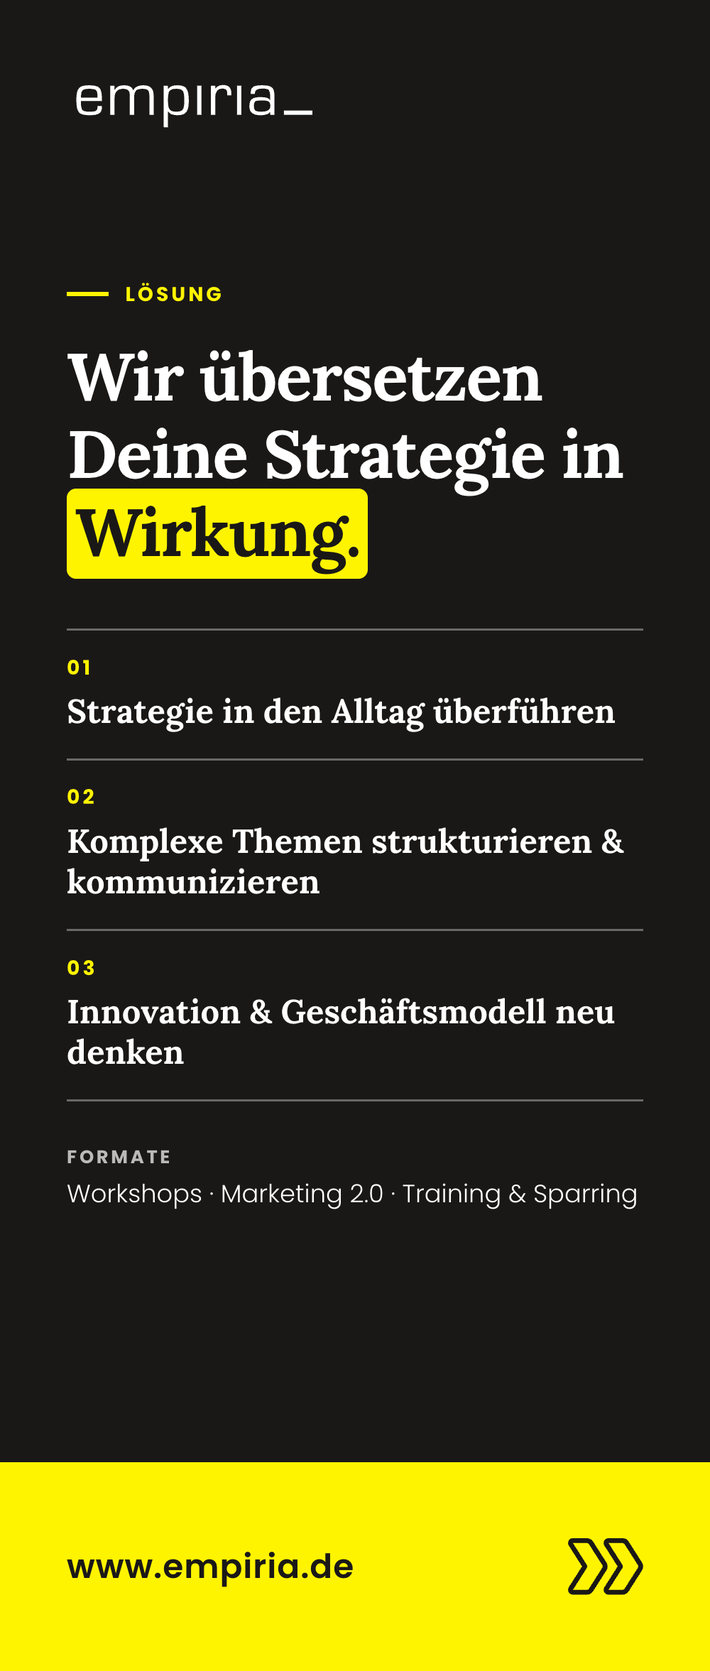
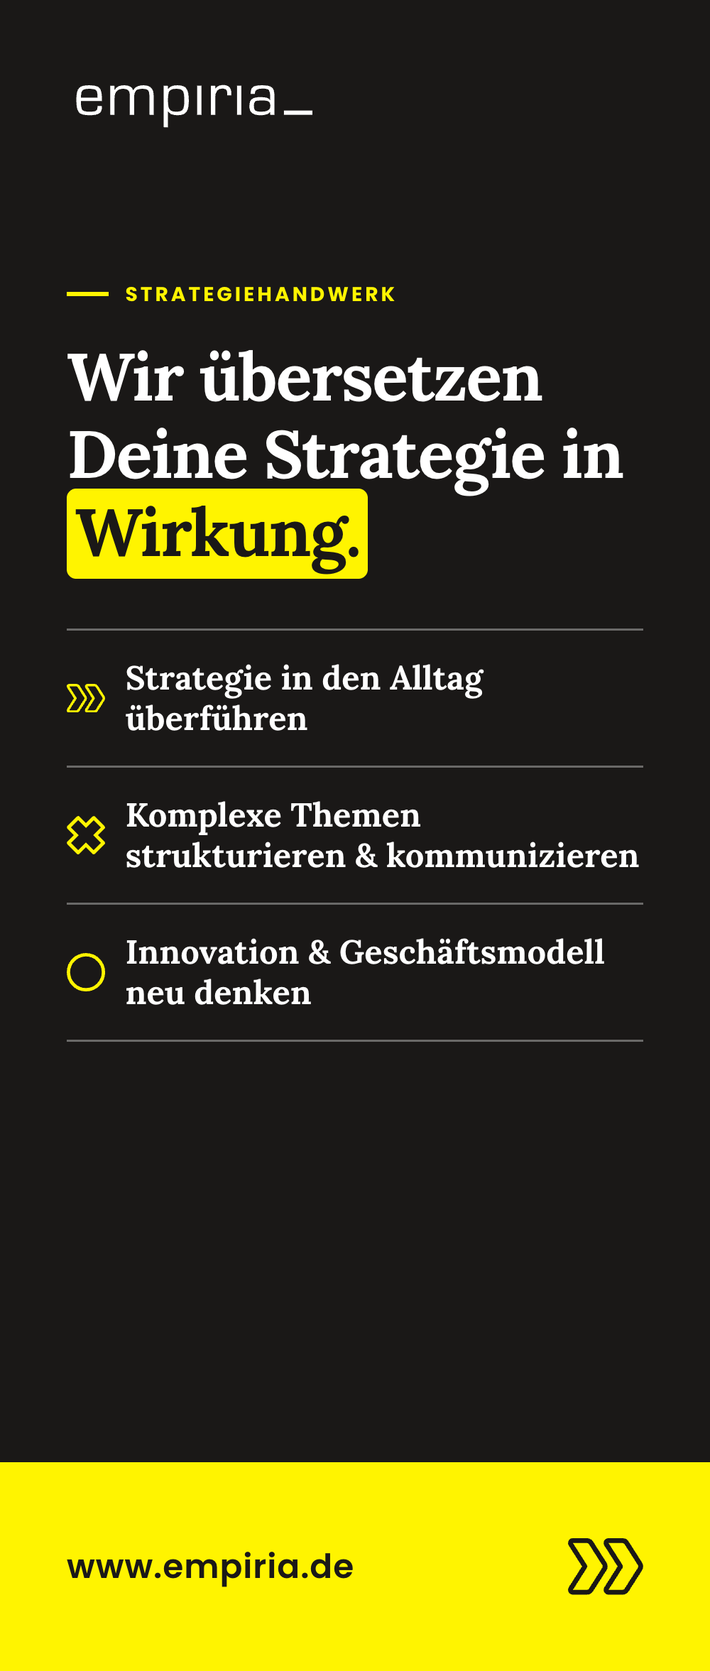
Roll-up Prüfrunde 1: Fließtext und Formate-Zeile entfernt, Leistungen mit den Zeichen der Homepage statt Nummern

diff --git a/site/projekte/ga-rollup.html b/site/projekte/ga-rollup.html
@@ -810,12 +810,13 @@ if(document.readyState==='loading')document.addEventListener('DOMContentLoaded',
   <h1>Roll-<span class="hl">up</span></h1>
   <p class="ga-lead">Vier Entwürfe für das Roll-up im Format 85 × 200 cm – für Messen, Vorträge und Workshops. Wenig Text, große Schrift, die Botschaft auf Augenhöhe. Alle Entwürfe sind maßstäblich; die PNGs sind Vorschauen, keine Druckdaten.</p>
   <div class="ga-chips"><span class="aktiv">Entwurf 1</span><span>85 × 200 cm</span><span>4 Varianten</span><span>Sichtzonen</span></div>
-  <div class="ga-abschnitt"><h2>Vier Varianten</h2><p><b>A</b> setzt allein auf den Claim und den Doppelpfeil – wirkt aus 10 m Entfernung. <b>B</b> erklärt in drei Zeilen, was empiria tut. <b>C</b> zeigt die Menschen – gut für Messen und Netzwerk-Abende. <b>D</b> holt die Leitfrage der Startseite auf Gelb und spricht Führungskräfte direkt an.</p><div class="ga-raster" style="--sp:4;--sp-m:2;gap:2.2rem 1.2rem"><figure class="ga-wrap"><div class="ru ga-blatt ru--a" style="--bg:#fff;--fg:#1a1817" data-png="ga/rollup/rollup-a.png" data-pw="1000"><div class="ru-in"><img class="ru-logo" src="/assets/empiria-logo.svg" alt="empiria"><div class="ru-block"><p class="ru-kicker">Strategiehandwerk</p><p class="ru-h ru-h--gross">Strategie,<br>die <span class="ru-hl">wirkt.</span></p><p class="ru-text">empiria begleitet Führungskräfte in der Versicherungsbranche bei strategischen Fragen, die schnelle Klarheit und wirksame Umsetzung erfordern.</p></div><span class="ru-pfeil-a"><svg class="" viewBox="2.83 31.08 226.78 170.29" fill="#1a1817" color="#1a1817" aria-hidden="true"><path fill="currentColor" d="M124.63,201.36c-7.96-.02-14.41-6.49-14.39-14.43,0-2.73.78-5.38,2.24-7.69l40.09-63.07-40.08-63c-4.25-6.77-2.2-15.67,4.52-19.89,2.28-1.43,4.91-2.19,7.59-2.2h43.03c7.41.02,14.18,3.76,18.12,10.02l40.52,63.6c4.45,7.01,4.45,16.05,0,23.04l-40.54,63.64c-3.92,6.22-10.69,9.97-18.08,9.99h-43.01ZM125.11,45.72l42.32,66.52c1.52,2.4,1.53,5.46,0,7.86l-42.34,66.62h42.54c2.33,0,4.48-1.2,5.73-3.18l40.55-63.66c1.41-2.22,1.41-5.09,0-7.31l-40.53-63.62c-1.27-2.02-3.42-3.21-5.77-3.21h-42.51Z"/>
-      <path fill="currentColor" d="M60.23,201.36H17.22c-7.96-.02-14.41-6.49-14.39-14.43,0-2.72.78-5.38,2.24-7.68l40.09-63.08L5.08,53.2c-4.26-6.72-2.26-15.63,4.45-19.88,2.31-1.46,4.97-2.23,7.69-2.24h43c7.41.01,14.18,3.76,18.13,10.02l40.52,63.6c4.45,7.01,4.45,16.05,0,23.04l-40.54,63.64c-3.93,6.23-10.7,9.97-18.1,9.99ZM17.68,45.72l42.34,66.52c1.52,2.4,1.53,5.46,0,7.86l-42.34,66.62h42.53c2.34,0,4.49-1.2,5.74-3.18l40.55-63.66c1.41-2.22,1.41-5.09,0-7.31l-40.53-63.62c-1.27-2.02-3.42-3.21-5.77-3.21H17.68Z"/></svg></span><div class="ru-fuss" style="background:#fff400;color:#1a1817"><span>www.empiria.de</span></div></div></div><figcaption class="ga-label"><b>A · Claim</b> · weiß · 85 × 200 cm</figcaption><a class="ga-dl" href="/projekte/ga/rollup/rollup-a.png" download><svg viewBox="0 0 24 24" fill="none" stroke="currentColor" stroke-width="2" stroke-linecap="round" stroke-linejoin="round"><path d="M12 15V3"/><path d="m7 10 5 5 5-5"/><path d="M21 15v4a2 2 0 0 1-2 2H5a2 2 0 0 1-2-2v-4"/></svg>PNG-Vorschau · 1000 × 2353 px</a></figure><figure class="ga-wrap"><div class="ru ga-blatt ru--b" style="--bg:#1a1817;--fg:#fff" data-png="ga/rollup/rollup-b.png" data-pw="1000"><div class="ru-in"><img class="ru-logo" src="/assets/empiria-logo-weiss.svg" alt="empiria"><div class="ru-block"><p class="ru-kicker">Lösung</p><p class="ru-h">Wir übersetzen Deine Strategie in <span class="ru-hl">Wirkung.</span></p><ol class="ru-liste"><li><small>01</small><b>Strategie in den Alltag überführen</b></li><li><small>02</small><b>Komplexe Themen strukturieren &amp; kommunizieren</b></li><li><small>03</small><b>Innovation &amp; Geschäftsmodell neu denken</b></li></ol><p class="ru-formate"><span>Formate</span>Workshops · Marketing 2.0 · Training &amp; Sparring</p></div><div class="ru-fuss" style="background:#fff400;color:#1a1817"><span>www.empiria.de</span><span class="ru-fpfeil"><svg class="" viewBox="2.83 31.08 226.78 170.29" fill="#1a1817" color="#1a1817" aria-hidden="true"><path fill="currentColor" d="M124.63,201.36c-7.96-.02-14.41-6.49-14.39-14.43,0-2.73.78-5.38,2.24-7.69l40.09-63.07-40.08-63c-4.25-6.77-2.2-15.67,4.52-19.89,2.28-1.43,4.91-2.19,7.59-2.2h43.03c7.41.02,14.18,3.76,18.12,10.02l40.52,63.6c4.45,7.01,4.45,16.05,0,23.04l-40.54,63.64c-3.92,6.22-10.69,9.97-18.08,9.99h-43.01ZM125.11,45.72l42.32,66.52c1.52,2.4,1.53,5.46,0,7.86l-42.34,66.62h42.54c2.33,0,4.48-1.2,5.73-3.18l40.55-63.66c1.41-2.22,1.41-5.09,0-7.31l-40.53-63.62c-1.27-2.02-3.42-3.21-5.77-3.21h-42.51Z"/>
+  <div class="ga-abschnitt"><h2>Vier Varianten</h2><p><b>A</b> setzt allein auf den Claim und den Doppelpfeil – wirkt aus 10 m Entfernung. <b>B</b> erklärt in drei Zeilen, was empiria tut. <b>C</b> zeigt die Menschen – gut für Messen und Netzwerk-Abende. <b>D</b> holt die Leitfrage der Startseite auf Gelb und spricht Führungskräfte direkt an.</p><div class="ga-raster" style="--sp:4;--sp-m:2;gap:2.2rem 1.2rem"><figure class="ga-wrap"><div class="ru ga-blatt ru--a" style="--bg:#fff;--fg:#1a1817" data-png="ga/rollup/rollup-a.png" data-pw="1000"><div class="ru-in"><img class="ru-logo" src="/assets/empiria-logo.svg" alt="empiria"><div class="ru-block"><p class="ru-kicker">Strategiehandwerk</p><p class="ru-h ru-h--gross">Strategie,<br>die <span class="ru-hl">wirkt.</span></p></div><span class="ru-pfeil-a"><svg class="" viewBox="2.83 31.08 226.78 170.29" fill="#1a1817" color="#1a1817" aria-hidden="true"><path fill="currentColor" d="M124.63,201.36c-7.96-.02-14.41-6.49-14.39-14.43,0-2.73.78-5.38,2.24-7.69l40.09-63.07-40.08-63c-4.25-6.77-2.2-15.67,4.52-19.89,2.28-1.43,4.91-2.19,7.59-2.2h43.03c7.41.02,14.18,3.76,18.12,10.02l40.52,63.6c4.45,7.01,4.45,16.05,0,23.04l-40.54,63.64c-3.92,6.22-10.69,9.97-18.08,9.99h-43.01ZM125.11,45.72l42.32,66.52c1.52,2.4,1.53,5.46,0,7.86l-42.34,66.62h42.54c2.33,0,4.48-1.2,5.73-3.18l40.55-63.66c1.41-2.22,1.41-5.09,0-7.31l-40.53-63.62c-1.27-2.02-3.42-3.21-5.77-3.21h-42.51Z"/>
+      <path fill="currentColor" d="M60.23,201.36H17.22c-7.96-.02-14.41-6.49-14.39-14.43,0-2.72.78-5.38,2.24-7.68l40.09-63.08L5.08,53.2c-4.26-6.72-2.26-15.63,4.45-19.88,2.31-1.46,4.97-2.23,7.69-2.24h43c7.41.01,14.18,3.76,18.13,10.02l40.52,63.6c4.45,7.01,4.45,16.05,0,23.04l-40.54,63.64c-3.93,6.23-10.7,9.97-18.1,9.99ZM17.68,45.72l42.34,66.52c1.52,2.4,1.53,5.46,0,7.86l-42.34,66.62h42.53c2.34,0,4.49-1.2,5.74-3.18l40.55-63.66c1.41-2.22,1.41-5.09,0-7.31l-40.53-63.62c-1.27-2.02-3.42-3.21-5.77-3.21H17.68Z"/></svg></span><div class="ru-fuss" style="background:#fff400;color:#1a1817"><span>www.empiria.de</span></div></div></div><figcaption class="ga-label"><b>A · Claim</b> · weiß · 85 × 200 cm</figcaption><a class="ga-dl" href="/projekte/ga/rollup/rollup-a.png" download><svg viewBox="0 0 24 24" fill="none" stroke="currentColor" stroke-width="2" stroke-linecap="round" stroke-linejoin="round"><path d="M12 15V3"/><path d="m7 10 5 5 5-5"/><path d="M21 15v4a2 2 0 0 1-2 2H5a2 2 0 0 1-2-2v-4"/></svg>PNG-Vorschau · 1000 × 2353 px</a></figure><figure class="ga-wrap"><div class="ru ga-blatt ru--b" style="--bg:#1a1817;--fg:#fff" data-png="ga/rollup/rollup-b.png" data-pw="1000"><div class="ru-in"><img class="ru-logo" src="/assets/empiria-logo-weiss.svg" alt="empiria"><div class="ru-block"><p class="ru-kicker">Strategiehandwerk</p><p class="ru-h">Wir übersetzen Deine Strategie in <span class="ru-hl">Wirkung.</span></p><ol class="ru-liste"><li><i class="ru-zeichen ru-zeichen--forward"><svg class="" viewBox="2.83 31.08 226.78 170.29" fill="#fff400" color="#fff400" aria-hidden="true"><path fill="currentColor" d="M124.63,201.36c-7.96-.02-14.41-6.49-14.39-14.43,0-2.73.78-5.38,2.24-7.69l40.09-63.07-40.08-63c-4.25-6.77-2.2-15.67,4.52-19.89,2.28-1.43,4.91-2.19,7.59-2.2h43.03c7.41.02,14.18,3.76,18.12,10.02l40.52,63.6c4.45,7.01,4.45,16.05,0,23.04l-40.54,63.64c-3.92,6.22-10.69,9.97-18.08,9.99h-43.01ZM125.11,45.72l42.32,66.52c1.52,2.4,1.53,5.46,0,7.86l-42.34,66.62h42.54c2.33,0,4.48-1.2,5.73-3.18l40.55-63.66c1.41-2.22,1.41-5.09,0-7.31l-40.53-63.62c-1.27-2.02-3.42-3.21-5.77-3.21h-42.51Z"/>
+      <path fill="currentColor" d="M60.23,201.36H17.22c-7.96-.02-14.41-6.49-14.39-14.43,0-2.72.78-5.38,2.24-7.68l40.09-63.08L5.08,53.2c-4.26-6.72-2.26-15.63,4.45-19.88,2.31-1.46,4.97-2.23,7.69-2.24h43c7.41.01,14.18,3.76,18.13,10.02l40.52,63.6c4.45,7.01,4.45,16.05,0,23.04l-40.54,63.64c-3.93,6.23-10.7,9.97-18.1,9.99ZM17.68,45.72l42.34,66.52c1.52,2.4,1.53,5.46,0,7.86l-42.34,66.62h42.53c2.34,0,4.49-1.2,5.74-3.18l40.55-63.66c1.41-2.22,1.41-5.09,0-7.31l-40.53-63.62c-1.27-2.02-3.42-3.21-5.77-3.21H17.68Z"/></svg></i><b>Strategie in den Alltag überführen</b></li><li><i class="ru-zeichen ru-zeichen--kreuz"><svg class="" viewBox="2.83 2.83 226.78 226.78" fill="#fff400" color="#fff400" aria-hidden="true"><path fill="currentColor" d="M162.06,27.36l43.02,43.02-31.7,31.7-14.14,14.14,14.14,14.14,31.7,31.7-43.02,43.02-31.7-31.7-14.14-14.14-14.14,14.14-31.7,31.7-43.02-43.02,31.7-31.7,14.14-14.14-14.14-14.14-31.7-31.7,43.02-43.02,31.7,31.7,14.14,14.14,14.14-14.14,31.7-31.7M162.06,2.83c-2.32,0-4.64.89-6.41,2.66l-39.43,39.43L76.79,5.49c-1.77-1.77-4.09-2.66-6.41-2.66-2.32,0-4.64.88-6.41,2.66L5.49,63.97c-3.54,3.54-3.54,9.28,0,12.82l39.43,39.43L5.49,155.65c-3.54,3.54-3.54,9.28,0,12.82l58.48,58.48c1.77,1.77,4.09,2.66,6.41,2.66s4.64-.89,6.41-2.66l39.43-39.43,39.43,39.43c1.77,1.77,4.09,2.66,6.41,2.66s4.64-.89,6.41-2.66l58.48-58.48c3.54-3.54,3.54-9.28,0-12.82l-39.43-39.43,39.43-39.43c3.54-3.54,3.54-9.28,0-12.82L168.47,5.49c-1.77-1.77-4.09-2.66-6.41-2.66h0Z"/></svg></i><b>Komplexe Themen strukturieren &amp; kommunizieren</b></li><li><i class="ru-zeichen ru-zeichen--kreis"><svg class="" viewBox="2.83 2.83 226.78 226.78" fill="#fff400" color="#fff400" aria-hidden="true"><path fill="currentColor" d="M116.22,22.83c51.49,0,93.39,41.89,93.39,93.39s-41.89,93.39-93.39,93.39S22.83,167.71,22.83,116.22,64.73,22.83,116.22,22.83M116.22,2.83C53.6,2.83,2.83,53.6,2.83,116.22s50.76,113.39,113.39,113.39,113.39-50.76,113.39-113.39S178.84,2.83,116.22,2.83h0Z"/></svg></i><b>Innovation &amp; Geschäftsmodell neu denken</b></li></ol></div><div class="ru-fuss" style="background:#fff400;color:#1a1817"><span>www.empiria.de</span><span class="ru-fpfeil"><svg class="" viewBox="2.83 31.08 226.78 170.29" fill="#1a1817" color="#1a1817" aria-hidden="true"><path fill="currentColor" d="M124.63,201.36c-7.96-.02-14.41-6.49-14.39-14.43,0-2.73.78-5.38,2.24-7.69l40.09-63.07-40.08-63c-4.25-6.77-2.2-15.67,4.52-19.89,2.28-1.43,4.91-2.19,7.59-2.2h43.03c7.41.02,14.18,3.76,18.12,10.02l40.52,63.6c4.45,7.01,4.45,16.05,0,23.04l-40.54,63.64c-3.92,6.22-10.69,9.97-18.08,9.99h-43.01ZM125.11,45.72l42.32,66.52c1.52,2.4,1.53,5.46,0,7.86l-42.34,66.62h42.54c2.33,0,4.48-1.2,5.73-3.18l40.55-63.66c1.41-2.22,1.41-5.09,0-7.31l-40.53-63.62c-1.27-2.02-3.42-3.21-5.77-3.21h-42.51Z"/>
       <path fill="currentColor" d="M60.23,201.36H17.22c-7.96-.02-14.41-6.49-14.39-14.43,0-2.72.78-5.38,2.24-7.68l40.09-63.08L5.08,53.2c-4.26-6.72-2.26-15.63,4.45-19.88,2.31-1.46,4.97-2.23,7.69-2.24h43c7.41.01,14.18,3.76,18.13,10.02l40.52,63.6c4.45,7.01,4.45,16.05,0,23.04l-40.54,63.64c-3.93,6.23-10.7,9.97-18.1,9.99ZM17.68,45.72l42.34,66.52c1.52,2.4,1.53,5.46,0,7.86l-42.34,66.62h42.53c2.34,0,4.49-1.2,5.74-3.18l40.55-63.66c1.41-2.22,1.41-5.09,0-7.31l-40.53-63.62c-1.27-2.02-3.42-3.21-5.77-3.21H17.68Z"/></svg></span></div></div></div><figcaption class="ga-label"><b>B · Leistungen</b> · schwarz · 85 × 200 cm</figcaption><a class="ga-dl" href="/projekte/ga/rollup/rollup-b.png" download><svg viewBox="0 0 24 24" fill="none" stroke="currentColor" stroke-width="2" stroke-linecap="round" stroke-linejoin="round"><path d="M12 15V3"/><path d="m7 10 5 5 5-5"/><path d="M21 15v4a2 2 0 0 1-2 2H5a2 2 0 0 1-2-2v-4"/></svg>PNG-Vorschau · 1000 × 2353 px</a></figure><figure class="ga-wrap"><div class="ru ga-blatt ru--c" style="--bg:#fff;--fg:#1a1817" data-png="ga/rollup/rollup-c.png" data-pw="1000"><div class="ru-in"><img class="ru-logo" src="/assets/empiria-logo.svg" alt="empiria"><div class="ru-block"><p class="ru-kicker">Kontakt</p><p class="ru-h">Wir sind<br>für <span class="ru-hl">Dich da!</span></p><p class="ru-text">Direkter Draht – keine Warteschleifen, kein Ticketsystem.</p></div><img class="ru-team" src="/assets/team-portrait.webp" alt=""><div class="ru-namen"><p><b>Kerstin Christ</b><span>Expertin HR &amp; Weiterbildung</span></p><p><b>Daniel Ströbel</b><span>Strategiehandwerker</span></p><p><b>Noah Hermanns</b><span>Experte Performance Marketing</span></p></div><div class="ru-fuss" style="background:#1a1817;color:#fff400"><span>Strategie, die wirkt. <em>www.empiria.de</em></span><span class="ru-fpfeil"><svg class="" viewBox="2.83 31.08 226.78 170.29" fill="#fff400" color="#fff400" aria-hidden="true"><path fill="currentColor" d="M124.63,201.36c-7.96-.02-14.41-6.49-14.39-14.43,0-2.73.78-5.38,2.24-7.69l40.09-63.07-40.08-63c-4.25-6.77-2.2-15.67,4.52-19.89,2.28-1.43,4.91-2.19,7.59-2.2h43.03c7.41.02,14.18,3.76,18.12,10.02l40.52,63.6c4.45,7.01,4.45,16.05,0,23.04l-40.54,63.64c-3.92,6.22-10.69,9.97-18.08,9.99h-43.01ZM125.11,45.72l42.32,66.52c1.52,2.4,1.53,5.46,0,7.86l-42.34,66.62h42.54c2.33,0,4.48-1.2,5.73-3.18l40.55-63.66c1.41-2.22,1.41-5.09,0-7.31l-40.53-63.62c-1.27-2.02-3.42-3.21-5.77-3.21h-42.51Z"/>
       <path fill="currentColor" d="M60.23,201.36H17.22c-7.96-.02-14.41-6.49-14.39-14.43,0-2.72.78-5.38,2.24-7.68l40.09-63.08L5.08,53.2c-4.26-6.72-2.26-15.63,4.45-19.88,2.31-1.46,4.97-2.23,7.69-2.24h43c7.41.01,14.18,3.76,18.13,10.02l40.52,63.6c4.45,7.01,4.45,16.05,0,23.04l-40.54,63.64c-3.93,6.23-10.7,9.97-18.1,9.99ZM17.68,45.72l42.34,66.52c1.52,2.4,1.53,5.46,0,7.86l-42.34,66.62h42.53c2.34,0,4.49-1.2,5.74-3.18l40.55-63.66c1.41-2.22,1.41-5.09,0-7.31l-40.53-63.62c-1.27-2.02-3.42-3.21-5.77-3.21H17.68Z"/></svg></span></div></div></div><figcaption class="ga-label"><b>C · Team</b> · weiß + Foto · 85 × 200 cm</figcaption><a class="ga-dl" href="/projekte/ga/rollup/rollup-c.png" download><svg viewBox="0 0 24 24" fill="none" stroke="currentColor" stroke-width="2" stroke-linecap="round" stroke-linejoin="round"><path d="M12 15V3"/><path d="m7 10 5 5 5-5"/><path d="M21 15v4a2 2 0 0 1-2 2H5a2 2 0 0 1-2-2v-4"/></svg>PNG-Vorschau · 1000 × 2353 px</a></figure><figure class="ga-wrap"><div class="ru ga-blatt ru--d" style="--bg:#fff400;--fg:#1a1817" data-png="ga/rollup/rollup-d.png" data-pw="1000"><div class="ru-in"><img class="ru-logo" src="/assets/empiria-logo.svg" alt="empiria"><div class="ru-block"><p class="ru-kicker">Die Strategie steht</p><p class="ru-h">Warum kommt meine Strategie im Alltag nicht an?</p><p class="ru-frage">Warum bewegt sich da nichts?</p><p class="ru-frage">Warum zieht mein Team nicht mit?</p><p class="ru-text ru-text--d">Es liegt selten an der Strategie selbst – sondern daran, dass sie niemand in den Alltag übersetzt hat.</p></div><span class="ru-pfeil-d"><svg class="" viewBox="2.83 31.08 226.78 170.29" fill="#1a1817" color="#1a1817" aria-hidden="true"><path fill="currentColor" d="M124.63,201.36c-7.96-.02-14.41-6.49-14.39-14.43,0-2.73.78-5.38,2.24-7.69l40.09-63.07-40.08-63c-4.25-6.77-2.2-15.67,4.52-19.89,2.28-1.43,4.91-2.19,7.59-2.2h43.03c7.41.02,14.18,3.76,18.12,10.02l40.52,63.6c4.45,7.01,4.45,16.05,0,23.04l-40.54,63.64c-3.92,6.22-10.69,9.97-18.08,9.99h-43.01ZM125.11,45.72l42.32,66.52c1.52,2.4,1.53,5.46,0,7.86l-42.34,66.62h42.54c2.33,0,4.48-1.2,5.73-3.18l40.55-63.66c1.41-2.22,1.41-5.09,0-7.31l-40.53-63.62c-1.27-2.02-3.42-3.21-5.77-3.21h-42.51Z"/>
       <path fill="currentColor" d="M60.23,201.36H17.22c-7.96-.02-14.41-6.49-14.39-14.43,0-2.72.78-5.38,2.24-7.68l40.09-63.08L5.08,53.2c-4.26-6.72-2.26-15.63,4.45-19.88,2.31-1.46,4.97-2.23,7.69-2.24h43c7.41.01,14.18,3.76,18.13,10.02l40.52,63.6c4.45,7.01,4.45,16.05,0,23.04l-40.54,63.64c-3.93,6.23-10.7,9.97-18.1,9.99ZM17.68,45.72l42.34,66.52c1.52,2.4,1.53,5.46,0,7.86l-42.34,66.62h42.53c2.34,0,4.49-1.2,5.74-3.18l40.55-63.66c1.41-2.22,1.41-5.09,0-7.31l-40.53-63.62c-1.27-2.02-3.42-3.21-5.77-3.21H17.68Z"/></svg></span><div class="ru-fuss" style="background:#1a1817;color:#fff400"><span>Strategie, die wirkt. <em>www.empiria.de</em></span><span class="ru-fpfeil"><svg class="" viewBox="2.83 31.08 226.78 170.29" fill="#fff400" color="#fff400" aria-hidden="true"><path fill="currentColor" d="M124.63,201.36c-7.96-.02-14.41-6.49-14.39-14.43,0-2.73.78-5.38,2.24-7.69l40.09-63.07-40.08-63c-4.25-6.77-2.2-15.67,4.52-19.89,2.28-1.43,4.91-2.19,7.59-2.2h43.03c7.41.02,14.18,3.76,18.12,10.02l40.52,63.6c4.45,7.01,4.45,16.05,0,23.04l-40.54,63.64c-3.92,6.22-10.69,9.97-18.08,9.99h-43.01ZM125.11,45.72l42.32,66.52c1.52,2.4,1.53,5.46,0,7.86l-42.34,66.62h42.54c2.33,0,4.48-1.2,5.73-3.18l40.55-63.66c1.41-2.22,1.41-5.09,0-7.31l-40.53-63.62c-1.27-2.02-3.42-3.21-5.77-3.21h-42.51Z"/>
-      <path fill="currentColor" d="M60.23,201.36H17.22c-7.96-.02-14.41-6.49-14.39-14.43,0-2.72.78-5.38,2.24-7.68l40.09-63.08L5.08,53.2c-4.26-6.72-2.26-15.63,4.45-19.88,2.31-1.46,4.97-2.23,7.69-2.24h43c7.41.01,14.18,3.76,18.13,10.02l40.52,63.6c4.45,7.01,4.45,16.05,0,23.04l-40.54,63.64c-3.93,6.23-10.7,9.97-18.1,9.99ZM17.68,45.72l42.34,66.52c1.52,2.4,1.53,5.46,0,7.86l-42.34,66.62h42.53c2.34,0,4.49-1.2,5.74-3.18l40.55-63.66c1.41-2.22,1.41-5.09,0-7.31l-40.53-63.62c-1.27-2.02-3.42-3.21-5.77-3.21H17.68Z"/></svg></span></div></div></div><figcaption class="ga-label"><b>D · Frage</b> · gelb · 85 × 200 cm</figcaption><a class="ga-dl" href="/projekte/ga/rollup/rollup-d.png" download><svg viewBox="0 0 24 24" fill="none" stroke="currentColor" stroke-width="2" stroke-linecap="round" stroke-linejoin="round"><path d="M12 15V3"/><path d="m7 10 5 5 5-5"/><path d="M21 15v4a2 2 0 0 1-2 2H5a2 2 0 0 1-2-2v-4"/></svg>PNG-Vorschau · 1000 × 2353 px</a></figure></div></div><div class="ga-abschnitt"><h2>Aufbau &amp; Sichtzonen</h2><p>Ein Roll-up wird im Stehen und aus Entfernung gelesen. Darum steht die Botschaft auf Augenhöhe, das Logo ganz oben und unten nichts Wichtiges – der Standfuß und Tische verdecken diesen Bereich oft.</p><div class="ga-raster ru-aufbau"><figure class="ga-wrap"><div class="ru ga-blatt ru--a" style="--bg:#fff;--fg:#1a1817"><div class="ru-zonen"><div class="ru-z" style="top:0;height:15%"><span>Kopfzone · 170–200 cm</span><small>Logo – sichtbar über Köpfe hinweg</small></div><div class="ru-z ru-z--auge" style="top:15%;height:40%"><span>Augenhöhe · 90–170 cm</span><small>Botschaft – hier wird gelesen</small></div><div class="ru-z" style="top:55%;height:32.5%"><span>Mitte · 25–90 cm</span><small>Bild, Details, Liste</small></div><div class="ru-z ru-z--fuss" style="top:87.5%;height:12.5%"><span>Fußzone · 0–25 cm</span><small>oft verdeckt – nur Web-Adresse</small></div></div><div class="ru-in"><img class="ru-logo" src="/assets/empiria-logo.svg" alt="empiria"><div class="ru-block"><p class="ru-kicker">Strategiehandwerk</p><p class="ru-h ru-h--gross">Strategie,<br>die <span class="ru-hl">wirkt.</span></p><p class="ru-text">empiria begleitet Führungskräfte in der Versicherungsbranche bei strategischen Fragen, die schnelle Klarheit und wirksame Umsetzung erfordern.</p></div><span class="ru-pfeil-a"><svg class="" viewBox="2.83 31.08 226.78 170.29" fill="#1a1817" color="#1a1817" aria-hidden="true"><path fill="currentColor" d="M124.63,201.36c-7.96-.02-14.41-6.49-14.39-14.43,0-2.73.78-5.38,2.24-7.69l40.09-63.07-40.08-63c-4.25-6.77-2.2-15.67,4.52-19.89,2.28-1.43,4.91-2.19,7.59-2.2h43.03c7.41.02,14.18,3.76,18.12,10.02l40.52,63.6c4.45,7.01,4.45,16.05,0,23.04l-40.54,63.64c-3.92,6.22-10.69,9.97-18.08,9.99h-43.01ZM125.11,45.72l42.32,66.52c1.52,2.4,1.53,5.46,0,7.86l-42.34,66.62h42.54c2.33,0,4.48-1.2,5.73-3.18l40.55-63.66c1.41-2.22,1.41-5.09,0-7.31l-40.53-63.62c-1.27-2.02-3.42-3.21-5.77-3.21h-42.51Z"/>
+      <path fill="currentColor" d="M60.23,201.36H17.22c-7.96-.02-14.41-6.49-14.39-14.43,0-2.72.78-5.38,2.24-7.68l40.09-63.08L5.08,53.2c-4.26-6.72-2.26-15.63,4.45-19.88,2.31-1.46,4.97-2.23,7.69-2.24h43c7.41.01,14.18,3.76,18.13,10.02l40.52,63.6c4.45,7.01,4.45,16.05,0,23.04l-40.54,63.64c-3.93,6.23-10.7,9.97-18.1,9.99ZM17.68,45.72l42.34,66.52c1.52,2.4,1.53,5.46,0,7.86l-42.34,66.62h42.53c2.34,0,4.49-1.2,5.74-3.18l40.55-63.66c1.41-2.22,1.41-5.09,0-7.31l-40.53-63.62c-1.27-2.02-3.42-3.21-5.77-3.21H17.68Z"/></svg></span></div></div></div><figcaption class="ga-label"><b>D · Frage</b> · gelb · 85 × 200 cm</figcaption><a class="ga-dl" href="/projekte/ga/rollup/rollup-d.png" download><svg viewBox="0 0 24 24" fill="none" stroke="currentColor" stroke-width="2" stroke-linecap="round" stroke-linejoin="round"><path d="M12 15V3"/><path d="m7 10 5 5 5-5"/><path d="M21 15v4a2 2 0 0 1-2 2H5a2 2 0 0 1-2-2v-4"/></svg>PNG-Vorschau · 1000 × 2353 px</a></figure></div></div><div class="ga-abschnitt"><h2>Aufbau &amp; Sichtzonen</h2><p>Ein Roll-up wird im Stehen und aus Entfernung gelesen. Darum steht die Botschaft auf Augenhöhe, das Logo ganz oben und unten nichts Wichtiges – der Standfuß und Tische verdecken diesen Bereich oft.</p><div class="ga-raster ru-aufbau"><figure class="ga-wrap"><div class="ru ga-blatt ru--a" style="--bg:#fff;--fg:#1a1817"><div class="ru-zonen"><div class="ru-z" style="top:0;height:15%"><span>Kopfzone · 170–200 cm</span><small>Logo – sichtbar über Köpfe hinweg</small></div><div class="ru-z ru-z--auge" style="top:15%;height:40%"><span>Augenhöhe · 90–170 cm</span><small>Botschaft – hier wird gelesen</small></div><div class="ru-z" style="top:55%;height:32.5%"><span>Mitte · 25–90 cm</span><small>Bild, Details, Liste</small></div><div class="ru-z ru-z--fuss" style="top:87.5%;height:12.5%"><span>Fußzone · 0–25 cm</span><small>oft verdeckt – nur Web-Adresse</small></div></div><div class="ru-in"><img class="ru-logo" src="/assets/empiria-logo.svg" alt="empiria"><div class="ru-block"><p class="ru-kicker">Strategiehandwerk</p><p class="ru-h ru-h--gross">Strategie,<br>die <span class="ru-hl">wirkt.</span></p></div><span class="ru-pfeil-a"><svg class="" viewBox="2.83 31.08 226.78 170.29" fill="#1a1817" color="#1a1817" aria-hidden="true"><path fill="currentColor" d="M124.63,201.36c-7.96-.02-14.41-6.49-14.39-14.43,0-2.73.78-5.38,2.24-7.69l40.09-63.07-40.08-63c-4.25-6.77-2.2-15.67,4.52-19.89,2.28-1.43,4.91-2.19,7.59-2.2h43.03c7.41.02,14.18,3.76,18.12,10.02l40.52,63.6c4.45,7.01,4.45,16.05,0,23.04l-40.54,63.64c-3.92,6.22-10.69,9.97-18.08,9.99h-43.01ZM125.11,45.72l42.32,66.52c1.52,2.4,1.53,5.46,0,7.86l-42.34,66.62h42.54c2.33,0,4.48-1.2,5.73-3.18l40.55-63.66c1.41-2.22,1.41-5.09,0-7.31l-40.53-63.62c-1.27-2.02-3.42-3.21-5.77-3.21h-42.51Z"/>
       <path fill="currentColor" d="M60.23,201.36H17.22c-7.96-.02-14.41-6.49-14.39-14.43,0-2.72.78-5.38,2.24-7.68l40.09-63.08L5.08,53.2c-4.26-6.72-2.26-15.63,4.45-19.88,2.31-1.46,4.97-2.23,7.69-2.24h43c7.41.01,14.18,3.76,18.13,10.02l40.52,63.6c4.45,7.01,4.45,16.05,0,23.04l-40.54,63.64c-3.93,6.23-10.7,9.97-18.1,9.99ZM17.68,45.72l42.34,66.52c1.52,2.4,1.53,5.46,0,7.86l-42.34,66.62h42.53c2.34,0,4.49-1.2,5.74-3.18l40.55-63.66c1.41-2.22,1.41-5.09,0-7.31l-40.53-63.62c-1.27-2.02-3.42-3.21-5.77-3.21H17.68Z"/></svg></span><div class="ru-fuss" style="background:#fff400;color:#1a1817"><span>www.empiria.de</span></div></div></div><figcaption class="ga-label"><b>Sichtzonen</b> · am Beispiel A</figcaption></figure><div class="ru-mass"><p><b>Format</b><span>85 × 200 cm, hoch (Standard-Kassette)</span></p><p><b>Rand</b><span>8 cm seitlich, Logo 8 cm vom oberen Rand</span></p><p><b>Überschrift</b><span>Lora Bold, ca. 300–400 pt – lesbar aus 5–8 m</span></p><p><b>Text</b><span>Poppins Light, ca. 90–110 pt</span></p><p><b>Fuß</b><span>untere 25 cm: farbige Fläche, nur Web-Adresse</span></p><p><b>Druckdaten</b><span>als PDF 1:1 oder 1:10 mit Anschnitt laut Druckerei (noch anzulegen)</span></p></div></div></div>
 </div></section>
 <style>
@@ -877,9 +878,11 @@ if(document.readyState==='loading')document.addEventListener('DOMContentLoaded',
 .ru--b .ru-h { font-size: 9.4118cqw; }
 .ru--b .ru-kicker { color: #fff400; }
 .ru-liste { list-style: none; padding: 0; margin-top: 8.2353cqw !important; border-top: 0.3529cqw solid rgba(255,255,255,.35); }
-.ru-liste li { padding: 3.7647cqw 0; border-bottom: 0.3529cqw solid rgba(255,255,255,.35); }
+.ru-liste li { display: grid; grid-template-columns: 8.2353cqw 1fr; align-items: center; padding: 3.7647cqw 0; border-bottom: 0.3529cqw solid rgba(255,255,255,.35); }
+.ru-zeichen { display: block; width: 5.4118cqw; }
+.ru-zeichen svg { display: block; width: 100%; height: auto; }
 .ru-liste small { display: block; font: 700 2.8235cqw/1 'Poppins', sans-serif; letter-spacing: .14em; color: #fff400; }
-.ru-liste b { display: block; margin-top: 1.8824cqw; font: 700 4.7059cqw/1.22 'Lora', serif; }
+.ru-liste b { display: block; font: 700 4.7059cqw/1.22 'Lora', serif; }
 .ru-formate { margin-top: 6.5882cqw !important; font: 300 3.5294cqw/1.5 'Poppins', sans-serif; }
 .ru-formate span { display: block; margin-bottom: 1.1765cqw; font: 700 2.5882cqw/1 'Poppins', sans-serif; letter-spacing: .14em; text-transform: uppercase; opacity: .7; }
 /* C */

diff --git a/werkzeuge/ga/rollup.py b/werkzeuge/ga/rollup.py
@@ -3,7 +3,7 @@
 
 Vier Varianten:
   A · Claim       – weiß, „Strategie, die wirkt.“ + großer Doppelpfeil
-  B · Leistungen  – schwarz, die drei Leistungen + Formate
+  B · Leistungen  – schwarz, die drei Leistungen
   C · Team        – weiß, Teamfoto, Namen und Rollen
   D · Frage       – gelb, die Leitfrage der Startseite
 Dazu eine Aufbau-Ansicht mit Sichtzonen. PNG-Vorschau (1000 × 2353 px) nach site/projekte/ga/rollup/.
@@ -36,21 +36,18 @@ def fuss(bg, fg, pfeil=True, text=None):
 
 def var_a(png=None):
     return rollup(logo(cls="ru-logo") + '<div class="ru-block">' + kicker("Strategiehandwerk") +
-                  '<p class="ru-h ru-h--gross">Strategie,<br>die <span class="ru-hl">wirkt.</span></p>'
-                  '<p class="ru-text">empiria begleitet Führungskräfte in der Versicherungsbranche bei strategischen Fragen, '
-                  'die schnelle Klarheit und wirksame Umsetzung erfordern.</p></div>'
+                  '<p class="ru-h ru-h--gross">Strategie,<br>die <span class="ru-hl">wirkt.</span></p></div>'
                   f'<span class="ru-pfeil-a">{zeichen("forward", SCHWARZ)}</span>' + fuss(GELB, SCHWARZ, False),
                   "#fff", SCHWARZ, "ru--a", png)
 
 
 def var_b(png=None):
-    leist = [("01", "Strategie in den Alltag überführen"), ("02", "Komplexe Themen strukturieren &amp; kommunizieren"),
-             ("03", "Innovation &amp; Geschäftsmodell neu denken")]
-    liste = "".join(f'<li><small>{n}</small><b>{t}</b></li>' for n, t in leist)
-    return rollup(logo(True, "ru-logo") + '<div class="ru-block">' + kicker("Lösung") +
+    leist = [("forward", "Strategie in den Alltag überführen"), ("kreuz", "Komplexe Themen strukturieren &amp; kommunizieren"),
+             ("kreis", "Innovation &amp; Geschäftsmodell neu denken")]
+    liste = "".join(f'<li><i class="ru-zeichen ru-zeichen--{n}">{zeichen(n, GELB)}</i><b>{t}</b></li>' for n, t in leist)
+    return rollup(logo(True, "ru-logo") + '<div class="ru-block">' + kicker("Strategiehandwerk") +
                   '<p class="ru-h">Wir übersetzen Deine Strategie in <span class="ru-hl">Wirkung.</span></p>'
-                  f'<ol class="ru-liste">{liste}</ol>'
-                  '<p class="ru-formate"><span>Formate</span>Workshops · Marketing 2.0 · Training &amp; Sparring</p></div>' +
+                  f'<ol class="ru-liste">{liste}</ol></div>' +
                   fuss(GELB, SCHWARZ), SCHWARZ, "#fff", "ru--b", png)
 
 
@@ -132,9 +129,11 @@ CSS = masse("""
 .ru--b .ru-h { font-size: [80]; }
 .ru--b .ru-kicker { color: #fff400; }
 .ru-liste { list-style: none; padding: 0; margin-top: [70] !important; border-top: [3] solid rgba(255,255,255,.35); }
-.ru-liste li { padding: [32] 0; border-bottom: [3] solid rgba(255,255,255,.35); }
+.ru-liste li { display: grid; grid-template-columns: [70] 1fr; align-items: center; padding: [32] 0; border-bottom: [3] solid rgba(255,255,255,.35); }
+.ru-zeichen { display: block; width: [46]; }
+.ru-zeichen svg { display: block; width: 100%; height: auto; }
 .ru-liste small { display: block; font: 700 [24]/1 'Poppins', sans-serif; letter-spacing: .14em; color: #fff400; }
-.ru-liste b { display: block; margin-top: [16]; font: 700 [40]/1.22 'Lora', serif; }
+.ru-liste b { display: block; font: 700 [40]/1.22 'Lora', serif; }
 .ru-formate { margin-top: [56] !important; font: 300 [30]/1.5 'Poppins', sans-serif; }
 .ru-formate span { display: block; margin-bottom: [10]; font: 700 [22]/1 'Poppins', sans-serif; letter-spacing: .14em; text-transform: uppercase; opacity: .7; }
 /* C */
